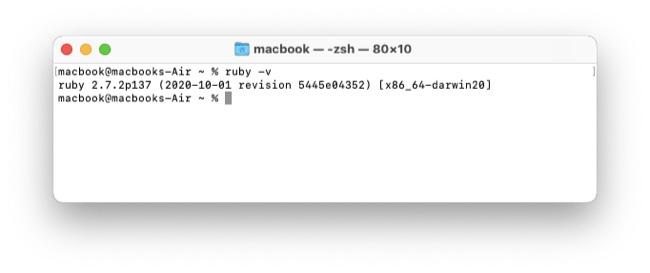
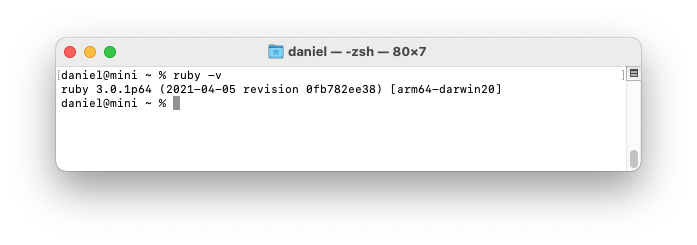
revise 'Install Ruby with Asdf' with Ruby 3.0.1

Changed region(s): [[0.0615, 0.1429, 0.9231, 0.4571], [0.0615, 0.6, 0.9231, 0.7429]]

diff --git a/ruby/6.md b/ruby/6.md
@@ -14,7 +14,7 @@ Leave the system Ruby in place and use the software version manager to install t
 
 Check online for the current [recommended version of Ruby](http://www.ruby-lang.org/en/downloads/).
 
-When this was written, Ruby 3.0.0 was the newest version (released on Dec 25, 2020).
+When this was written, Ruby 3.0.1 was the newest version (3.0.0 was released on Dec 25, 2020).
 
 First, install the asdf plugin for Ruby:
 
@@ -46,7 +46,7 @@ You’ll see diagnostic messages and progress updates. Installation may take thi
 You need to specify a default version of Ruby in your home `~/.tool-versions` file. You can set the `~/.tool-versions` file with a command:
 
 ```bash
-$ asdf global ruby 3.0.0
+$ asdf global ruby 3.0.1
 ```
 
 🚩 After installation, close and re-open the terminal window.
@@ -57,7 +57,7 @@ Verify that the newest version of Ruby is installed with `ruby -v`.
 
 ![](/assets/images/ruby/verify-ruby-install.png)
 
-When this was written, Ruby 3.0.0 was the newest version (released on Dec 25, 2020).
+When this was written, Ruby 3.0.1 was the newest version (3.0.0 was released on Dec 25, 2020).
 
 If you see Ruby version 2.6.3, it is the system Ruby and you likely forgot to close and re-open the terminal window.
 
@@ -66,7 +66,7 @@ If you see `No version set for command ruby`, you need to specify a default vers
 For example, create a `~/.tool-versions` file like this:
 
 ```bash
-ruby 3.0.0
+ruby 3.0.1
 ```
 
 The [Tips: Uninstalling Ruby](/ruby/9.html) section explains where Ruby versions are installed and how to remove them.
